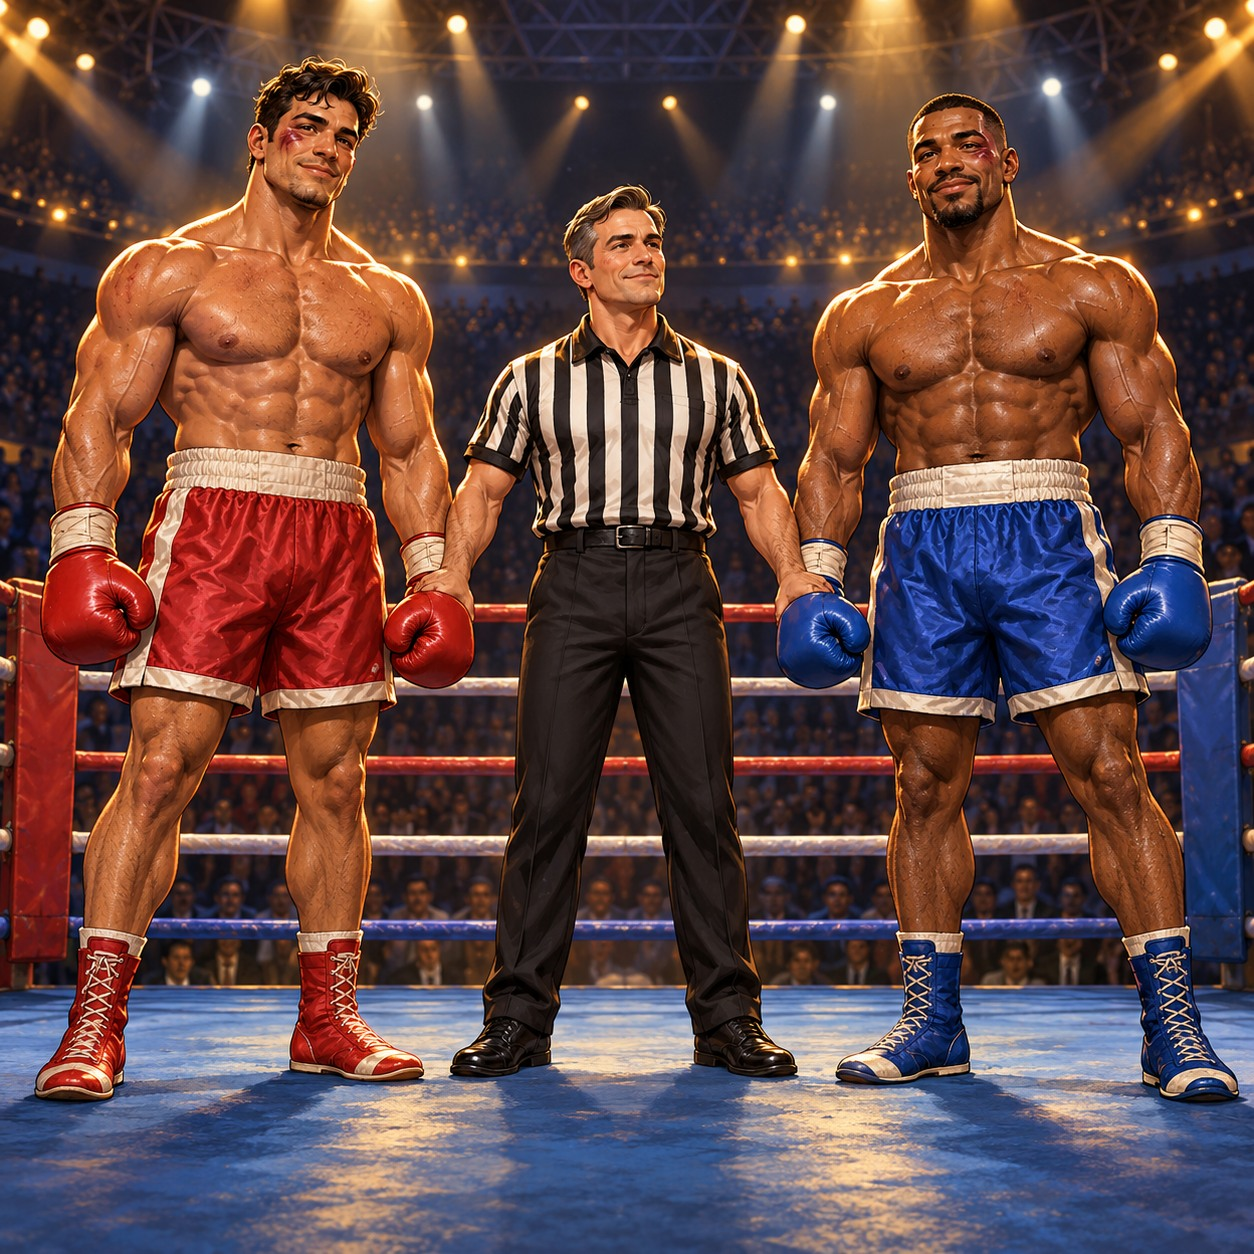
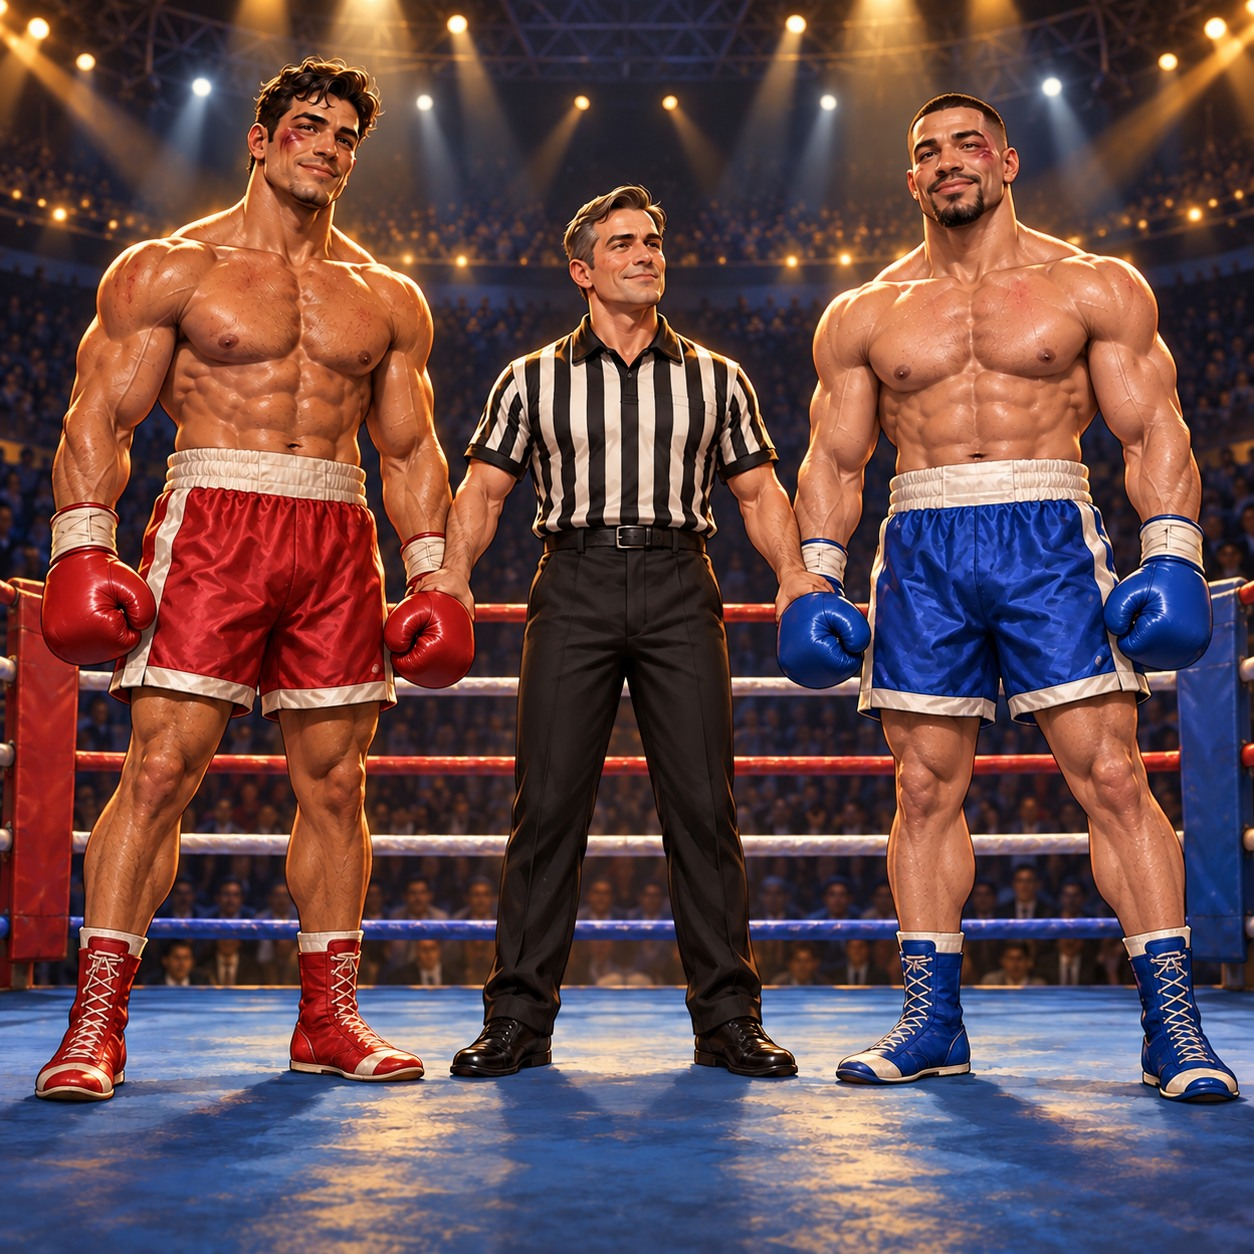
art(async): revise the approved boxer complexions

diff --git a/src/assets/async-finale/README.md b/src/assets/async-finale/README.md
@@ -1,5 +1,21 @@
 # Original boxing finale artwork — local review candidate
 
+## Approved narrow complexion revision — October 29, 2026
+
+After approving the illustrated direction, the owner requested that both fictional boxers be white/light-skinned. The existing winner and draw assets were inspected and edited with the built-in image-generation tool; they were not redesigned. The red boxer's existing light complexion was retained and the blue boxer's complexion was made light consistently in both scenes. Visual inspection confirms the original composition, expressions/poses, wardrobe, centered referee, winner's raised left arm, right-hand cash bag and neutral draw are preserved. Runtime names, amounts, confetti and all logic are unchanged.
+
+The current JPEG files replace the prior versions under the same approved asset paths. Source edits: `exec-7281b1d1-0130-474e-b2c9-58b5886fed26.png` (winner) and `exec-2ecd4fe9-3967-42dd-86bd-d237a51964a0.png` (draw). Both were encoded at JPEG quality 92 with no resizing or composition edits. Original and edited source PNGs remain preserved outside the production bundle.
+
+### Winner edit prompt
+
+Make a very narrow edit to this EXISTING original fictional arcade boxing illustration. The owner wants BOTH fictional boxers to be white/light-skinned. The red winner on the left already has a light warm tan complexion: preserve him unchanged. Change ONLY the exposed skin complexion of the blue boxer on the RIGHT to a natural light-skinned white complexion, warm light beige/peach with subtle pink undertones, harmonized with the same warm arena lighting. Apply consistently to face, ears, neck, torso, arms, hands and legs. Preserve his exact facial features as far as possible, short dark hair, beard, downcast expression, head angle, musculature, sweat and shading details. Do NOT redesign either person. Preserve the exact original composition and pixel alignment, the ring and crowd, lights, red and blue wardrobes, physically centered striped referee, winner's anatomical LEFT arm raised by referee, winner's bare anatomical RIGHT hand holding the blank cash bag, and every prop's size and location. No other changes. Do not add any names, amount, dollar sign, text, confetti, chips, watermark or logo. Keep square size and full framing. This is a skin-complexion-only edit, not a new scene.
+
+### Neutral draw edit prompt
+
+Image 1 is the EXISTING neutral draw illustration to edit. Image 2 is ONLY a complexion consistency reference from the already-edited decisive version. Make a narrow skin-complexion-only edit to Image 1: both fictional boxers should be white/light-skinned. Keep the red LEFT boxer unchanged. Change the blue RIGHT boxer's exposed skin to the same natural light beige/peach white complexion with warm pink undertones seen on the blue boxer in Image 2. Apply consistently to face, ears, neck, torso, arms, hands and legs under the existing arena light. Preserve Image 1's exact layout, faces as far as possible, short dark hair/beard, small sportsmanlike smiles, upright neutral postures, gloves at waist level, muscular anatomy, clothing, lighting, ring, centered striped referee, and all background details. DO NOT transfer the winner/loser poses or cash bag from Image 2: this remains the NEUTRAL DRAW, neither boxer victorious or dejected, neither arm raised, no bag. No other redesign or changes. Preserve full square framing and pixel alignment. No names, text, numbers, dollar signs, cash bag, confetti, chips, logos or watermark.
+
+## Original generation history
+
 Generated with the built-in `image_gen` tool on October 29, 2026. These are original illustrations, not stock-image edits. The two Library reference IDs supplied by the owner were not accessible as standalone images through this task's available tools; direction came from the owner's requirements and the parent task's inspected description. No stock pixels or watermarks were copied or removed.
 
 Selected project assets:
@@ -9,7 +25,7 @@ Selected project assets:
 
 Runtime assigns the authoritative winner and loser names to the corresponding illustrated poses. The figures are generic role illustrations, not persistent player avatars. Draw retains participant order. Usernames, actual absolute net winnings and winner-viewer confetti are rendered by the application. No names, amounts, typography or confetti are baked into either asset. The latest owner direction replaced the chip flight with the right-hand cash bag.
 
-The source PNGs remain at their original generated-image locations and in the ignored local qualification folder. Final JPEG copies were encoded with the built-in Windows JPEG encoder at quality 92, without resizing, cropping or altering composition. They are 1254 × 1254; draw is 465,749 bytes and winner is 414,580 bytes. Only these delivery assets are used by the application.
+The source PNGs remain at their original generated-image locations and in the ignored local qualification folder. Final JPEG copies were encoded with the built-in Windows JPEG encoder at quality 92, without resizing, cropping or altering composition. Current edited assets are 1254 × 1254; draw is 416,973 bytes and winner is 394,805 bytes. Only these delivery assets are used by the application.
 
 Source generations:
 

diff --git a/docs/codex/ASYNC_RESULTS_LOCAL_CHECKPOINT.md b/docs/codex/ASYNC_RESULTS_LOCAL_CHECKPOINT.md
@@ -2,6 +2,14 @@
 
 Status: implemented local candidate on `codex/async-combined`, continuing checkpoint `c4ead759b`. Publication, main integration, hosted migration, activation and customer-data changes remain on hold. Production remains the published sibling completion correction `43545662c08baf1e2e7b764c25048989a1d9721b`.
 
+## Approved artwork-only refinement after `5fd4ac5a0`
+
+Owner approved the illustrated direction with one requested change: both fictional boxers should be white/light-skinned. The existing assets were inspected and edited through built-in image generation, with the decisive version used as a complexion reference for the draw. Composition, wardrobe, expressions/poses, centered referee, winner's raised left arm, right-hand cash bag and neutral draw are visually preserved. Only the two JPEG assets and documentation changed; all runtime mapping, amount, confetti, timing, acknowledgement and financial code remains identical to `5fd4ac5a0`.
+
+Updated assets keep their existing paths under `src/assets/async-finale/`: `boxing-winner-cash-v1.jpg` (394,805 bytes) and `boxing-draw-v1.jpg` (416,973 bytes), both 1254 square. Source edit IDs, exact prompts and original generation history are preserved in that directory's README.
+
+All 18 installed-Edge winner/loser/draw checks pass again at 320px, 390px and 1440px, each with normal/reduced motion. Fresh phone loser and neutral-draw screenshots were visually inspected. Asset build passes with the existing chunk-size warning. No application-code test rerun was needed for the binary-only change. Evidence: `boxing-light-browser.log`, `boxing-light-browser.json`, `boxing-light-build.log` and fresh `boxing-*.png` screenshots in `qualification.local/async-combined/`. The existing local preview health check passes at `http://127.0.0.1:15325/`. No publication, hosted migration or customer-state change occurred.
+
 ## October 29 illustrated finale revision — local only
 
 Owner rejected the schematic figures and selected polished original arcade illustration. The latest direction supersedes chip transfer: centered referee raises the winner's anatomical left arm; the winner holds a cash bag in their anatomical right hand. Runtime displays the absolute authoritative net amount on the bag and usernames beneath the corresponding boxers. The illustrated winning pose is on the left; UUID-based runtime names map the actual winner/loser to those poses. No persistent player-avatar identity is inferred from the generic fighters. A separate neutral draw scene has no bag, dejected fighter, transfer or confetti.

diff --git a/docs/codex/CURRENT_RELEASE.md b/docs/codex/CURRENT_RELEASE.md
@@ -1,5 +1,7 @@
 # Async results/history — local candidate, publication held — 2026-10-29
 
+Latest artwork-only follow-up: owner approved the illustrated direction and requested both fictional boxers be white/light-skinned. The two existing assets were edited consistently, preserving the approved composition and poses. No application, gameplay, accounting or settlement code changed. All 18 phone/desktop/reduced-motion preview cases and the asset build pass again. Local preview remains available; publication and hosted changes remain held.
+
 Latest local visual revision: original illustrated boxer–referee–boxer finale replaces schematic SVG figures. Per the owner's latest direction, the winner holds a cash bag in the right hand while the centered referee raises the left arm. Runtime names and authoritative net amount label the scene; chip transfer is removed. Neutral draw and winner-only confetti remain. Twenty focused tests, typecheck/build and 18 phone/desktop/reduced-motion browser cases pass. Preview remains `http://127.0.0.1:15325/` on JeremyLaptop. Artwork and retained technical phrase await owner review; no publication or hosted changes.
 
 Local implementation on codex/async-combined now includes existing-match review recovery, independent viewer acknowledgements, shared replay timing/audio, durable Start retries and paged history. Fifteen service/database checks, ten synthetic browser cases, 3,226 source/server tests, 241 harness tests, application typecheck and production build pass. Publication and hosted migrations remain on hold. Finale artwork awaits owner review. See [local checkpoint, evidence and limits](ASYNC_RESULTS_LOCAL_CHECKPOINT.md). The published completion corrections below remain the production baseline.
